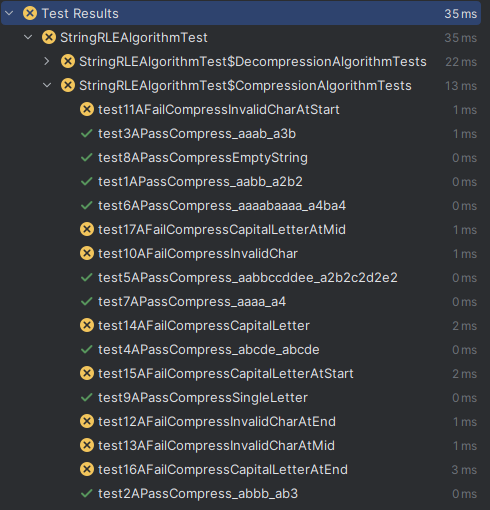
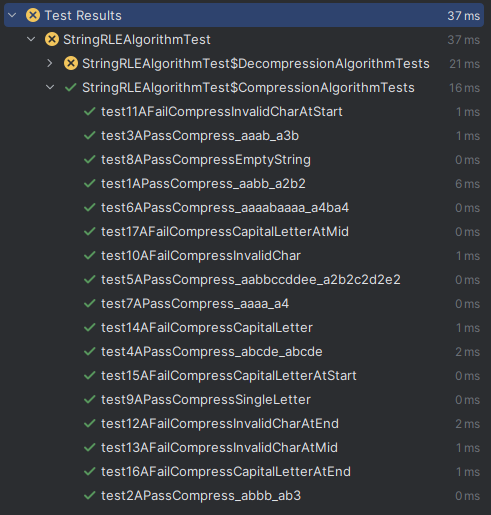
add: Check if compress()'s input is a valid format

diff --git a/src/main/java/vortrox/rle/StringRLEAlgorithm.java b/src/main/java/vortrox/rle/StringRLEAlgorithm.java
@@ -1,9 +1,15 @@
 package vortrox.rle;
 
+import java.util.regex.Pattern;
+
 public class StringRLEAlgorithm {
     public static String compress(String input) {
         if (input.isEmpty()) {
             return "";
+        }
+
+        if (!Pattern.matches("^[a-z]+$", input)) {
+            throw new UnsupportedOperationException("Invalid format");
         }
 
         StringBuilder output = new StringBuilder(input.length());
